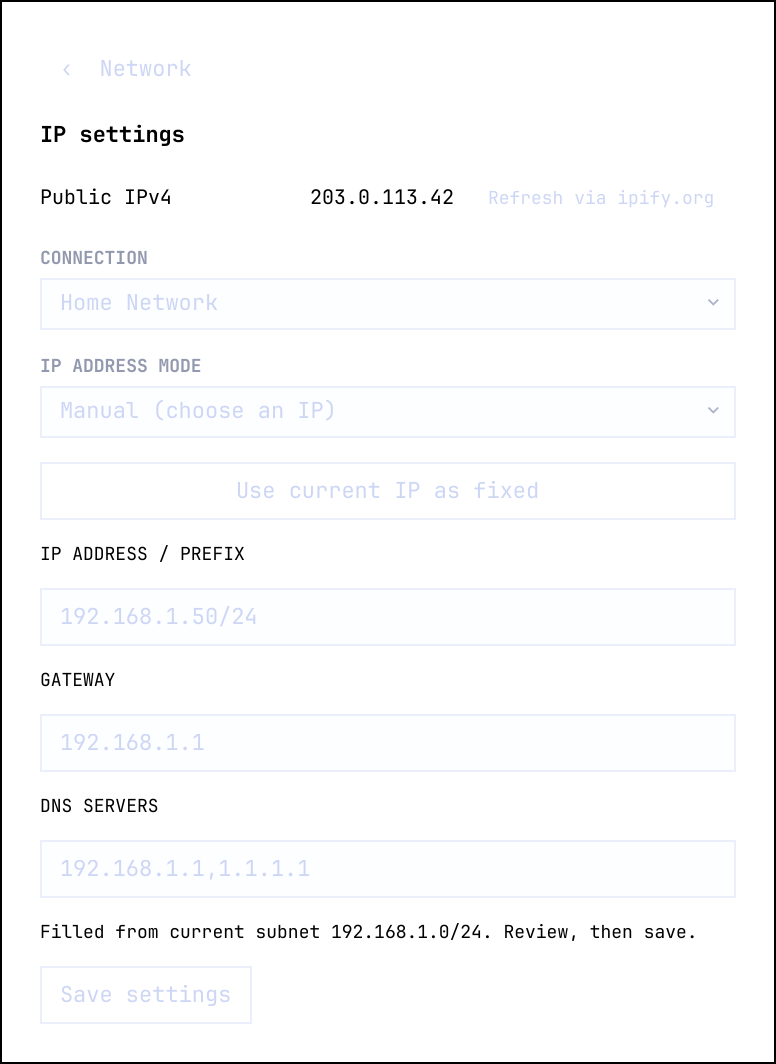
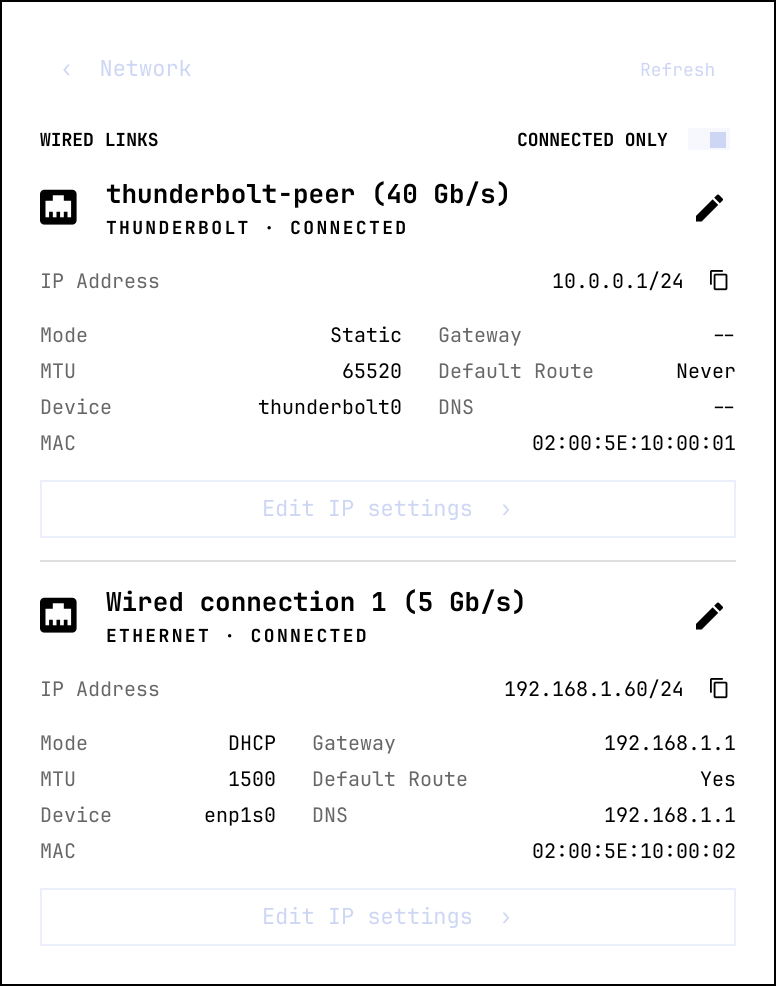
Release as Netdeck
New plugin ID io.github.douglas.netdeck, name, author and version 1.0.0. Complete MIT license crediting Rohi Rikman's rohi.network and Omarchy. README rewritten for the marketplace, with install and removal steps, and the wired links view as preview.png. CI runs on hosted runners only, for pushes and pull requests; the self-hosted runner workflow is gone. State file renamed to netdeck.json.

diff --git a/Panel.qml b/Panel.qml
@@ -139,7 +139,7 @@ Panel {
   property bool wiredView: false
   property var wiredLinks: []
   // Hide links with no cable or peer, so only the live ones show. Kept in
-  // $XDG_STATE_HOME/omarchy/rohi.network.json so it survives a shell restart.
+  // $XDG_STATE_HOME/omarchy/netdeck.json so it survives a shell restart.
   property bool wiredConnectedOnly: false
   readonly property string stateDir: (Quickshell.env("XDG_STATE_HOME") || Quickshell.env("HOME") + "/.local/state") + "/omarchy"
   function setWiredConnectedOnly(on) {
@@ -149,7 +149,7 @@ Panel {
   Process {
     id: stateDirProc
     command: ["mkdir", "-p", root.stateDir]
-    onExited: stateFile.path = root.stateDir + "/rohi.network.json"
+    onExited: stateFile.path = root.stateDir + "/netdeck.json"
     Component.onCompleted: running = true
   }
   FileView {

diff --git a/test/settings.test.py b/test/settings.test.py
@@ -190,7 +190,7 @@ class WiredTests(unittest.TestCase):
             '-t -f DEVICE,TYPE device status': 'wlp1s0:wifi\nthunderbolt0:ethernet\nenp2s0:ethernet\nlo:loopback\n',
             '-t -f GENERAL.STATE,GENERAL.CONNECTION,GENERAL.CON-UUID,GENERAL.HWADDR,IP4.ADDRESS,IP4.GATEWAY,IP4.DNS device show thunderbolt0': (
                 'GENERAL.STATE:100 (connected)\nGENERAL.CONNECTION:tb-link\nGENERAL.CON-UUID:u-tb\n'
-                'GENERAL.HWADDR:02:AA:BB:CC:DD:EE\nIP4.ADDRESS[1]:10.20.0.1/24\nIP4.ADDRESS[2]:10.20.0.9/24\nIP4.GATEWAY:\n'),
+                'GENERAL.HWADDR:02:AA:BB:CC:DD:EE\nIP4.ADDRESS[1]:10.0.0.1/24\nIP4.ADDRESS[2]:10.0.0.9/24\nIP4.GATEWAY:\n'),
             '-t -f GENERAL.STATE,GENERAL.CONNECTION,GENERAL.CON-UUID,GENERAL.HWADDR,IP4.ADDRESS,IP4.GATEWAY,IP4.DNS device show enp2s0': (
                 'GENERAL.STATE:20 (unavailable)\nGENERAL.CONNECTION:\nGENERAL.CON-UUID:\nGENERAL.HWADDR:9C:00:00:00:00:01\n'),
             '-t -f ipv4.method,ipv4.never-default connection show uuid u-tb': 'ipv4.method:manual\nipv4.never-default:yes\n',
@@ -198,7 +198,7 @@ class WiredTests(unittest.TestCase):
         tb, eth = result['links']
         self.assertEqual([tb['device'], eth['device']], ['thunderbolt0', 'enp2s0'])
         self.assertTrue(tb['thunderbolt'])
-        self.assertEqual(tb['addresses'], '10.20.0.1/24,10.20.0.9/24')
+        self.assertEqual(tb['addresses'], '10.0.0.1/24,10.0.0.9/24')
         self.assertEqual(tb['mac'], '02:AA:BB:CC:DD:EE')
         self.assertEqual((tb['state'], tb['speed'], tb['mtu']), ('connected', '40000', '65520'))
         self.assertEqual((tb['method'], tb['defaultRoute']), ('manual', False))
@@ -224,11 +224,11 @@ class RenameTests(unittest.TestCase):
         return [c for c in fake.calls if 'modify' in c]
 
     def test_renames_with_connection_id_only(self):
-        result, fake = self.rename('  thunderbolt-neo  ')
+        result, fake = self.rename('  thunderbolt-peer  ')
         self.assertNotIn('error', result)
         (call,) = self.modify(fake)
         self.assertEqual(call[call.index('uuid') + 1], 'u1')
-        self.assertEqual(call[call.index('connection.id') + 1], 'thunderbolt-neo')
+        self.assertEqual(call[call.index('connection.id') + 1], 'thunderbolt-peer')
         self.assertNotIn('ipv4.method', call)
 
     def test_rejects_an_empty_name(self):

diff --git a/settings.py b/settings.py
@@ -110,7 +110,7 @@ def current_static(uuid):
 
 def public_ip():
     request = urllib.request.Request('https://api.ipify.org?format=json',
-                                     headers={'User-Agent': 'Omarchy-Network-Settings/0.2.0'})
+                                     headers={'User-Agent': 'Netdeck/1.0.0'})
     opener = urllib.request.build_opener(NoRedirectHandler)
     with opener.open(request, timeout=8) as response:
         data = json.loads(response.read(1024))

diff --git a/test/manifest.test.py b/test/manifest.test.py
@@ -28,7 +28,7 @@ class ManifestTests(unittest.TestCase):
         self.assertEqual(self.m['schemaVersion'], 1)
 
     def test_id_matches_the_installed_directory(self):
-        self.assertEqual(self.m['id'], 'rohi.network')
+        self.assertEqual(self.m['id'], 'io.github.douglas.netdeck')
 
     def test_declares_a_bar_widget(self):
         self.assertIn('bar-widget', self.m['kinds'])

diff --git a/tools/render-previews.py b/tools/render-previews.py
@@ -172,5 +172,5 @@ ShellRoot {
     if result.returncode or not out.exists():
         raise SystemExit(result.stdout + result.stderr)
     print(out)
-shutil.copy2(ROOT / "docs" / "ip-manual.png", ROOT / "preview.png")
+shutil.copy2(ROOT / "docs" / "wired-connected.png", ROOT / "preview.png")
 shutil.rmtree(work)

diff --git a/README.md b/README.md
@@ -1,103 +1,118 @@
-# rohi.network
+# Netdeck
 
-A clone of Omarchy's `omarchy.network` bar widget with two additions: a
-public-IPv4 lookup and an in-panel IP settings editor.
+Every network link on your machine in one Omarchy bar panel: Wi-Fi, Ethernet
+and Thunderbolt networking. It replaces the stock `omarchy.network` widget and
+keeps everything it does, then adds a wired links view, a public IPv4 lookup
+and an IP settings editor.
 
-![IP settings with a manual address filled from the current connection](preview.png)
+Built for desks where machines talk over direct cables, such as two computers
+joined by a Thunderbolt cable, while still working as a normal laptop network
+widget.
+
+![Wired links with a Thunderbolt link and an Ethernet link](preview.png)
 
 <table>
-<tr><th>Network panel</th><th>Automatic (DHCP)</th></tr>
-<tr><td><img src="docs/wifi.png" alt="Network panel with demo data"></td><td><img src="docs/ip-dhcp.png" alt="IP settings in DHCP mode with demo data"></td></tr>
-<tr><th colspan="2">Wired links</th></tr>
-<tr><td colspan="2"><img src="docs/wired.png" alt="Wired links with demo Thunderbolt and Ethernet links"></td></tr>
+<tr><th>Network panel</th><th>IP settings</th></tr>
+<tr><td><img src="docs/wifi.png" alt="Network panel with demo data"></td><td><img src="docs/ip-manual.png" alt="IP settings with a manual address, demo data"></td></tr>
 </table>
 
-Screenshots render the actual QML interface with synthetic network names and
+Screenshots render the real QML with made-up network names and
 documentation-range addresses.
+
+## What it adds to the stock widget
+
+**Wired links** (`e`, or *Wired links ›*): every Ethernet device, Thunderbolt
+networking included. For each one:
+
+- name and link speed, and whether it is Ethernet or Thunderbolt;
+- state, IPv4 address with a copy button, and DHCP or static;
+- gateway, DNS, MTU, MAC (click a value to copy it);
+- whether it can take the default route. A direct cable between two machines
+  should say *Never*, so your internet traffic stays on your normal network;
+- a pencil to rename the connection in place (Enter saves, Esc cancels). Only
+  the NetworkManager profile name changes, so the link stays up;
+- *Edit IP settings ›*, which opens that link in the IP settings screen.
+
+The *Connected only* switch hides ports with no cable or peer. It is
+remembered across shell restarts in `~/.local/state/omarchy/netdeck.json`.
+
+**IP settings** (`s`, or *IP settings ›*): pick any saved Wi-Fi or Ethernet
+profile and switch it between DHCP and a fixed IPv4 address, gateway and DNS.
+*Use current IP as fixed* fills the form from the address you have now.
+
+**Public IPv4**: looks up your public address through
+[ipify.org](https://api.ipify.org), only when you click the button. The button
+names the service, because the lookup is a request to a third party.
 
 ## Requirements
 
-- The Quickshell-based Omarchy shell (Quattro)
-- NetworkManager with `nmcli` on `PATH` — used by `settings.py` and by the
-  stock widget's own Wi-Fi list
-- Python 3 (standard library only; no packages to install)
-- `bash`, `awk`, and GNU coreutils
-- `iw` and `ip`, as the stock widget already uses them for link details
+- Omarchy with the Quickshell shell (Quattro)
+- NetworkManager, with `nmcli` on `PATH`
+- Python 3 (standard library only)
+- `bash`, `ip` and `iw`, which the stock widget already uses
 
-No background service, no daemon, and no network access except the public-IP
-lookup, which only runs when you press its button.
-
-## What this adds over the stock widget
-
-**Public IPv4** — a row that looks the address up through
-[ipify.org](https://api.ipify.org) on demand. The button says which service it
-contacts, because a public-IP lookup is a request to a third party and the user
-should know that before pressing it. The lookup never runs on its own; it waits
-for the click.
-
-**IP settings** — a screen reached with `s`, or the *IP settings ›* button. It
-lists the machine's saved Wi-Fi and Ethernet profiles and lets you switch a
-profile between DHCP and a fixed address, with an *Use current IP as fixed*
-shortcut that pre-fills from the subnet you are already on.
-
-**Wired links** — a screen reached with `e`, or the *Wired links ›* button.
-It shows every Ethernet device, Thunderbolt networking included: state, IPv4
-address and mode, gateway, DNS, whether it can take the default route, link
-speed, MTU and MAC. It only reads; *Edit IP settings ›* opens that link's
-profile in the IP settings screen. The copy button beside an address copies
-it; MAC, gateway and DNS values copy on click, like the main screen's.
-The *Connected only* switch in the header hides links with no cable or peer,
-and is remembered across shell restarts in
-`~/.local/state/omarchy/rohi.network.json`.
-The pencil beside a link's name renames its NetworkManager profile; Enter
-saves, Esc cancels. Only `connection.id` changes, so the link stays up.
+No background service and no network access except the public IPv4 lookup.
 
 ## Install
 
 ```bash
-omarchy plugin add https://github.com/RohiRIK/rohi.network --enable
+omarchy plugin add https://github.com/douglas/netdeck --enable
 ```
 
-The plugin id is `rohi.network`, so it replaces the stock `omarchy.network`
-widget rather than sitting beside it. To go back:
+Netdeck is a replacement for `omarchy.network` (`clonedFrom` in
+`manifest.json`), so it takes the stock widget's place in the bar and answers
+its keybindings.
+
+## Remove
 
 ```bash
-omarchy plugin remove rohi.network --yes
+omarchy plugin remove io.github.douglas.netdeck --yes
 ```
 
-Because `manifest.json` records `clonedFrom: omarchy.network`, removing it
-while it is enabled re-enables the stock widget automatically. The old
-directory is kept as a timestamped backup rather than deleted.
-
-If you removed it while it was disabled, the stock widget does not come back
-on its own — enable it:
+Removing it while it is enabled turns the stock widget back on. If you removed
+it while it was disabled, turn the stock widget on yourself:
 
 ```bash
 omarchy plugin enable omarchy.network
+```
+
+Netdeck keeps one small state file. Delete it too if you like:
+
+```bash
+rm -f ~/.local/state/omarchy/netdeck.json
 ```
 
 ## Keys
 
 | Key | Action |
 |---|---|
+| `e` | Open wired links |
 | `s` | Open IP settings |
 | `r` | Refresh |
-| `w` | Toggle the network on or off |
-| `Esc` | Leave IP settings, or close the panel |
+| `w` | Turn Wi-Fi on or off |
+| `Esc` | Go back, or close the panel |
 
 ## How it works
 
-`Panel.qml` is the stock widget plus two additions. Live link state comes from
-the `Quickshell.Networking` types the stock widget already uses.
+`Panel.qml` is the stock widget plus the screens above. Live Wi-Fi state comes
+from the `Quickshell.Networking` types the stock widget already uses.
 
-Anything that needs `nmcli` goes through `settings.py`, which takes one
-argument — `public`, `list`, `read`, `current` or `save` — and prints one JSON
-object on stdout. Errors come back as `{"error": "..."}` on stdout with a
-non-zero exit, so the panel has a single parse path.
+Everything that talks to NetworkManager goes through `settings.py`. It takes
+one action (`public`, `list`, `read`, `current`, `save`, `wired` or `rename`),
+prints one JSON object, and reports errors as `{"error": "..."}`. It calls
+`nmcli` with argument lists, never through a shell.
 
-The Wi-Fi passphrase never reaches `settings.py`. The stock widget's
-`enterpriseConnectScript` passes it on **stdin** into `nmcli connection edit`,
-because argv is world-readable through `/proc`.
+What it can change, and the checks before it does:
+
+- `save` sets only the IPv4 method, addresses, gateway and DNS of a Wi-Fi or
+  Ethernet profile. It refuses IPv6, an address without a prefix, and any other
+  profile type. Going back to DHCP clears the static address and gateway.
+- `rename` changes only the profile name. It refuses empty names, control
+  characters, names over 64 characters, and a name another connection uses.
+- `wired` only reads.
+
+Wi-Fi passphrases never reach `settings.py`: the stock code passes them on
+stdin to `nmcli`, because command-line arguments are visible in `/proc`.
 
 ## Tests
 
@@ -105,14 +120,15 @@ because argv is world-readable through `/proc`.
 bash test/run
 ```
 
-84 checks over four files:
-
 | File | Covers |
 |---|---|
-| `test/model.test.js` | The 25 pure helpers in `Model.js` — band labels, packet loss, latency formatting, Wi-Fi row sorting, credential prompts, failure mapping |
-| `test/settings.test.py` | Every validation branch in the save path, against a fake `nmcli`, so no real connection is touched |
-| `test/manifest.test.py` | Manifest schema, entry point, and that the files `Panel.qml` shells out to exist |
-| `test/integration.test.js` | Real `nmcli` and `omarchy-network-band` output on this machine |
+| `test/model.test.js` | The pure helpers in `Model.js` |
+| `test/settings.test.py` | Every `settings.py` action against a fake `nmcli`, so no real connection changes |
+| `test/manifest.test.py` | The manifest, its entry point, and `omarchy plugin validate` |
+| `test/integration.test.js` | Real `nmcli` and `omarchy-network-band` output on this machine (read-only) |
+
+GitHub Actions runs the first three on every push and pull request. The
+integration test needs NetworkManager and Omarchy, so it runs locally.
 
 To regenerate the screenshots:
 
@@ -120,55 +136,21 @@ To regenerate the screenshots:
 python3 tools/render-previews.py
 ```
 
-It needs the installed Omarchy shell and runs the real `Panel.qml` in an
-isolated offscreen renderer with synthetic data. It never captures your
-desktop, reads NetworkManager, or contacts ipify.org.
+It runs the real `Panel.qml` offscreen with made-up data. It never captures
+your screen, reads NetworkManager or contacts ipify.org.
 
-## CI, and why the runner is narrow
+## Keeping up with the stock widget
 
-`test/integration.test.js` needs NetworkManager and `omarchy-network-band`,
-which exist only on a real desktop, so it runs on a self-hosted runner
-registered against this repository.
+The stock widget lives in `/usr/share/omarchy/shell/plugins/panels/network/`.
+`Model.js` here is identical to stock, and `Panel.qml` carries Netdeck's
+additions on top, so port stock fixes across rather than re-cloning.
 
-That runner is Rohi's actual desktop: it holds SSH keys, a logged-in
-browser and the credential-vault plugin. So the grant is kept as narrow as
-it can be while still working:
+## Credits
 
-- **Ephemeral.** The runner accepts exactly one job, then deregisters
-  itself. A standing listener would accept a job from any workflow in the
-  repository at any time.
-- **One label.** It is addressed as `rohi-desktop`, so no other
-  repository's workflow can target it.
-- **Push only.** `test.yml` triggers on pushes to `main` and is the only
-  workflow containing a self-hosted job. Pull requests — including
-  anyone's forks — run in `untrusted.yml`, on `ubuntu-latest` only, with
-  `permissions: contents: read`. It never uses `pull_request_target`.
-
-Changes arriving by pull request are therefore reviewed and landed before
-anything touches the desktop. The equivalent checks pass locally in
-`bash test/run`, so the local run is the fast path and CI is the record.
-
-## Relationship to `omarchy.network`
-
-This is a clone. The stock widget lives in
-`/usr/share/omarchy/shell/plugins/panels/network/` and is owned by the omarchy
-package, so it must not be edited in place — an `omarchy update` overwrites it.
-`manifest.json` records `clonedFrom: omarchy.network` so the origin stays
-discoverable.
-
-When stock `omarchy.network` gains a fix, port it here rather than re-cloning:
-`Model.js` here is byte-identical to stock, and `Panel.qml` carries the
-additions on top of it.
-
-## Security notes
-
-- The public-IP lookup contacts a third party and only runs on an explicit click.
-- `save` validates every address, gateway and DNS entry before `nmcli` runs, and
-  refuses IPv6, a missing prefix, and a non-network profile.
-- Switching back to `auto` clears the static address and gateway, so a stale
-  address cannot block a later DHCP renewal.
-- Passphrases travel on stdin, never argv.
+Netdeck began as [rohi.network](https://github.com/RohiRIK/rohi.network) by
+Rohi Rikman, which added the public IPv4 lookup and the IP settings editor to
+Omarchy's [`omarchy.network`](https://github.com/basecamp/omarchy) widget.
 
 ## License
 
-MIT, matching the stock widget.
+MIT. See [LICENSE](LICENSE).

diff --git a/CHANGELOG.md b/CHANGELOG.md
@@ -1,7 +1,9 @@
 # Changelog
 
-## Unreleased
+## 1.0.0
 
+- Released as Netdeck (`io.github.douglas.netdeck`), from Rohi Rikman's
+  `rohi.network`. The *Connected only* state moves to `netdeck.json`.
 - Wired links screen (`e`, or *Wired links ›*): every Ethernet device,
   Thunderbolt networking included, with its state, IPv4 address and mode,
   gateway, DNS, whether it can be the default route, link speed, MTU and MAC.
